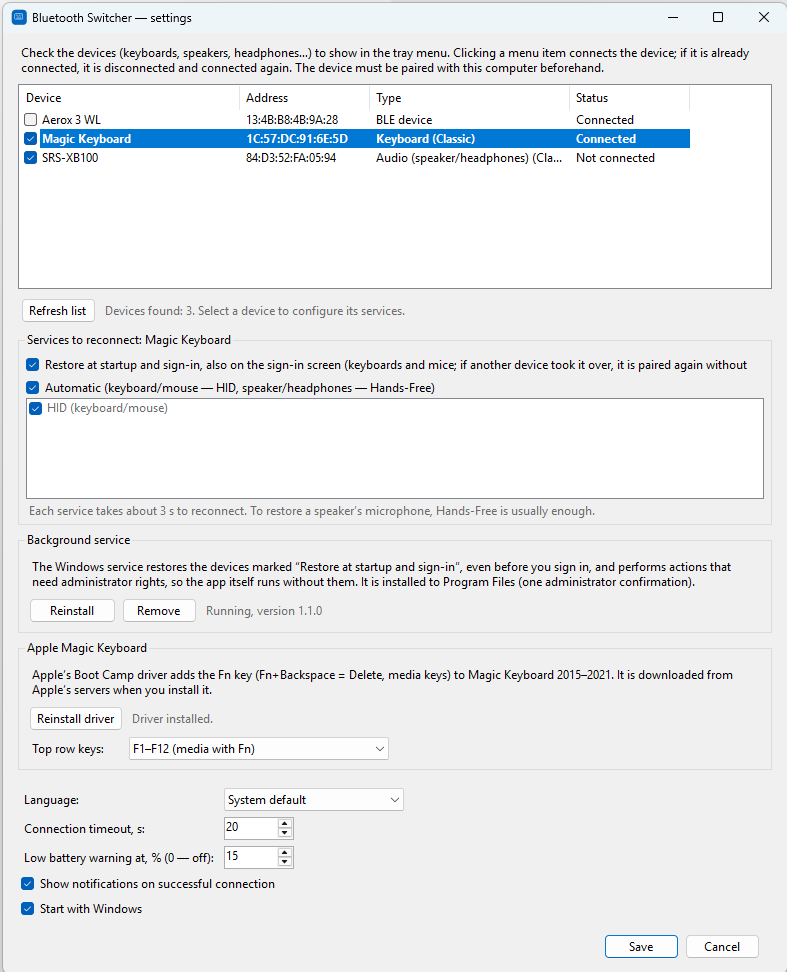
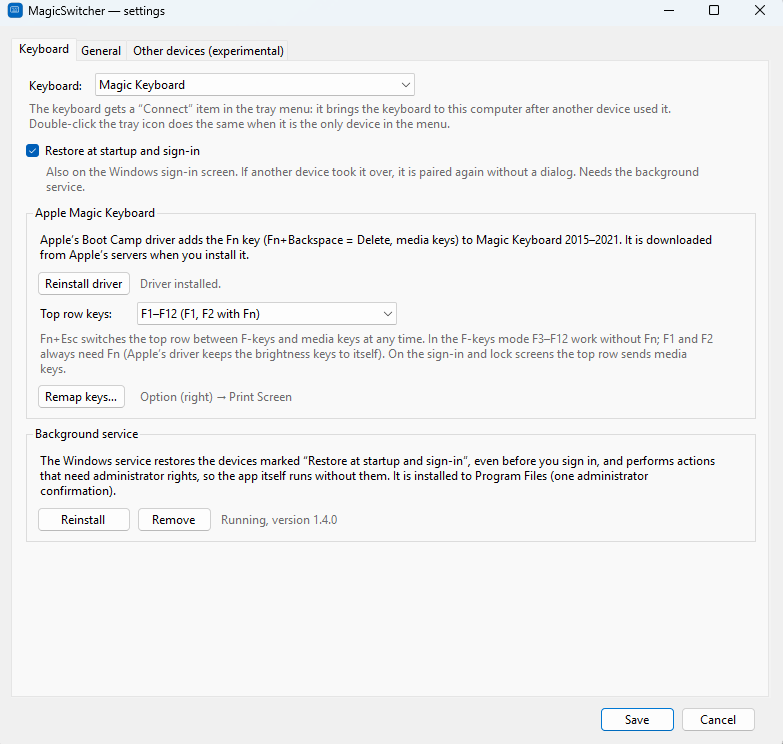
README and screenshots for 1.4.0; settings hints match the new tray menu
Claude-Session: https://claude.ai/code/session_0167kZWh8qamXcvx7FAG7wUm

diff --git a/README.md b/README.md
@@ -3,30 +3,34 @@
 **Apple Magic Keyboard on Windows, done right.** A small tray app for people who share one Magic Keyboard between a
 Windows PC and a Mac, an iPad, a phone or another PC:
 
-- **pulls the keyboard to this PC in one click** — no need to turn off Bluetooth on the other device;
+- **takes the keyboard back in one click**: click **Connect** in the tray and turn the keyboard off and on — it is paired
+  again within seconds, without the Windows dialog and without turning off Bluetooth on the other device;
 - **makes it type on the Windows sign-in screen**, even right after another device used it: Magic Keyboard keeps the
-  pairing key of only one host, and the optional background service pairs it again without the Windows dialog;
-- **installs Apple's keyboard driver** for the Fn key (Fn+Backspace = Delete, media keys) and lets you choose whether
-  the top row sends F1–F12 or media keys by default;
+  pairing key of only one host, and the optional background service pairs it again by itself;
+- **installs Apple's keyboard driver** for the Fn key (Fn+Backspace = Delete, media keys) and adds **Fn Lock**:
+  Fn+Esc switches the top row between F-keys and media keys;
+- **remaps keys of the Apple keyboard only** (Caps Lock, Control, Option, Command, Shift) — your other keyboards stay
+  as they are;
 - **shows the battery level** of the keyboard in the tray and warns when it runs low.
 
-It is also a **one-click reconnector for any other Bluetooth device** paired with Windows:
+It also helps with Bluetooth audio:
 
-- **speakers and headphones**: disconnect and connect again in one click, e.g. when a speaker “forgets” its microphone
-  (Hands-Free) — no more Settings → Bluetooth → Disconnect → Connect;
-- **other multi-host keyboards and mice** (Logitech, Keychron, Microsoft…): pull them over from another computer;
-- **battery level** of headsets, speakers and BLE devices that report it;
-- **Restart Windows audio** (tray menu → Troubleshooting): when sound or the microphone stops working everywhere and otherwise only
-  a reboot would help.
+- **notices a speaker or headset that lost its microphone** (“Connected audio” instead of “Connected mic, audio”) and
+  brings it back in one click, or automatically;
+- **Restart Windows audio** (tray menu → Troubleshooting): when sound or the microphone stops working everywhere and
+  otherwise only a reboot would help.
+
+And, as an experimental extra, it is a **one-click reconnector for other Bluetooth devices** paired with Windows: other
+multi-host keyboards and mice (Logitech, Keychron, Microsoft…), speakers and headphones, with their battery level.
 
 Tested with Apple Magic Keyboard A2450 (2021); the Fn driver supports Magic Keyboard 2015–2021.
 
 <p align="center">
-  <img src="docs/tray-menu.png" alt="Tray menu: reconnect Magic Keyboard (battery 38%), connect a speaker" width="324">
+  <img src="docs/tray-menu.png" alt="Tray menu: Magic Keyboard with its battery level, Restore the microphone of a speaker, Troubleshooting submenu" width="551">
 </p>
 
 <p align="center">
-  <img src="docs/settings.png" alt="Settings: devices, services to reconnect, background service, Apple Magic Keyboard driver" width="600">
+  <img src="docs/settings.png" alt="Settings, Keyboard tab: the keyboard, restore at startup and sign-in, Apple driver, top row keys, key remapping, background service" width="700">
 </p>
 
 ## Download
@@ -48,8 +52,9 @@ From then on:
 
 - to use the keyboard here after another device, click **Connect “Magic Keyboard”** in the tray menu (or double-click
   the icon) and turn the keyboard off and on (if it was only asleep, pressing a key is enough);
-- after a restart, or when the PC is locked, just turn the keyboard off and on (or press a key): it types within
-  about a minute, no dialog, even before you sign in.
+- after a restart, or when the PC is locked: if the keyboard stayed with this PC, just press a key; if another device
+  used it meanwhile, turn it off and on once the sign-in screen has been up for about half a minute. No dialog, even
+  before you sign in.
 
 ## Sign-in screen and switching back: the background service
 
@@ -61,22 +66,25 @@ The optional Windows service fixes that. Install it in **Settings → Background
 (one administrator confirmation) and check **Restore at startup and sign-in** for the keyboard. The service:
 
 - reacts to events: Windows startup, sign-in, unlock, wake from sleep, the display turning on, and **Connect** in the tray;
-- first gives the keyboard time to reconnect by itself (45 seconds after startup or wake: knocking earlier breaks a
-  connection that is coming up and makes Windows drop the key), then “knocks” every 20–30 seconds for up to 10 minutes;
-- if Windows still has the key, first pages the keyboard without touching the pairing (an uncached SDP query). Only if it
-  answers but still does not connect — it is awake and rejects the key, e.g. after a phone used it — the service
-  reinstalls the HID service. Reinstalling HID while the keyboard sleeps would make Windows remove a good pairing
-  (when the first HID connection fails, Windows deletes the link key); a sleeping keyboard reconnects by itself when you
-  press a key. If the key is gone (or Windows forgot the device),
-  pairs again with bonding (`BluetoothAuthenticateDeviceEx`), answers the pairing request itself
-  (`BluetoothRegisterForAuthenticationEx`) so no dialog appears, and enables the HID service;
-- keeps watching until the keyboard has worked for a minute without interruption: right after startup it may connect
-  and drop again (Windows then removes the pairing), and the service pairs it again right away;
+- first gives the keyboard time to reconnect by itself (45 seconds after startup or wake, 15 seconds after the other
+  events, none for **Connect**), then watches it for up to 10 minutes;
+- while Windows still has the key, it only *pages* the keyboard (an uncached SDP query, which does not touch the
+  pairing) every few seconds. No answer means the keyboard is asleep, off or busy with the other host: nothing is
+  changed, and a sleeping keyboard reconnects by itself when you press a key;
+- a keyboard that answers but does not stay connected was taken by another host. For a few seconds it looks exactly
+  like a working one (connected, paired, HID collections present) and then drops, and Windows keeps the useless key.
+  Waiting for Windows to notice takes too long — the keyboard accepts a new pairing only for a short while after it is
+  turned on — so the service removes the old pairing itself, pairs again with bonding (`BluetoothAuthenticateDeviceEx`),
+  answers the pairing request itself (`BluetoothRegisterForAuthenticationEx`) so no dialog appears, and enables the
+  HID service. From turning the keyboard on to typing takes 10–20 seconds;
+- it never reinstalls the HID service of a keyboard that may be asleep: the failed first HID connection would make
+  Windows delete a good pairing;
+- keeps watching until the keyboard has worked for a minute without interruption;
 - never knocks outside these events: when you hand the keyboard to a phone on purpose, it is left alone. Every event,
   the keyboard state and the service's decision are written to the service log.
 
-After another host used the keyboard, turn the keyboard off and on (or press a key) on the sign-in screen: it only
-listens for a new host for a short while after it wakes up. It types within about a minute.
+After another host used the keyboard, turn it off and on once: it accepts a new host only shortly after it is turned
+on. If it does not start typing within 20 seconds, turn it off and on again.
 
 > 🔒 Automatic confirmation skips the pairing code check. The service confirms only devices you selected and only while
 > it is restoring them after one of the events above; at any other time Windows asks as usual.
@@ -171,7 +179,7 @@ seconds, also during a call; it needs the background service).
 
 ## Other devices and how connecting works
 
-1. In **Settings**, check any paired devices (the list comes from Windows: Classic and BLE): other multi-host
+1. On the **Other devices (experimental)** tab of the settings, check any paired devices (the list comes from Windows: Classic and BLE): other multi-host
    keyboards, speakers, headphones, mice.
 2. Each of them gets an item under **Other devices** in the tray icon menu:
    - **Connect “Name”** if the device is not connected to this PC;
@@ -207,7 +215,8 @@ took the keyboard over (see above), and the tray's **Connect** goes through the 
 
 - **Keyboard** tab: your keyboard and **Restore at startup and sign-in**; the Apple driver, **top row** mode and
   **key remapping**; the **background service** (install, update or remove).
-- **General** tab: language, low battery warning threshold, notifications and start with Windows.
+- **General** tab: language, low battery warning threshold, notifications, start with Windows, and what to do when a
+  speaker or headset loses its microphone (notify; restore automatically).
 - **Other devices (experimental)** tab: other devices to show in the tray menu for a one-click reconnect, the
   **services to reconnect** for each Classic device (Automatic, or a manual selection) and the connection timeout.
 
@@ -245,8 +254,8 @@ dotnet publish src/MagicSwitcher -c Release -r win-x64 --self-contained true -p:
 ## Administrator rights
 
 The app runs without administrator rights. The actions that need them — reinstalling device services
-(`BluetoothSetServiceState` may return `ERROR_ACCESS_DENIED`), installing the Apple keyboard driver and changing its
-Fn mode — go through the background service when it is installed. Without the service, the app asks for a UAC
+(`BluetoothSetServiceState` may return `ERROR_ACCESS_DENIED`), installing the Apple keyboard driver and restarting
+Windows audio — go through the background service when it is installed. Without the service, the app asks for a UAC
 confirmation when Windows denies an action.
 
 ## Upgrading from Bluetooth Switcher
@@ -273,7 +282,8 @@ git push origin v1.4.0
 | `%AppData%\MagicSwitcher\settings.json` | settings (selected devices and services, timeout, language, battery threshold) |
 | `%AppData%\MagicSwitcher\log.txt` | log (tray menu → **Troubleshooting** → **Open log**) |
 | `%ProgramFiles%\MagicSwitcher\` | the service's copy of the app |
-| `%ProgramData%\MagicSwitcher\service.json` | devices the service restores, Apple keyboard top row choice |
+| `%ProgramData%\MagicSwitcher\service.json` | devices the service restores, remapped keys |
+| `%ProgramData%\MagicSwitcher\top-row.txt` | top row mode (Fn Lock): F-keys or media keys |
 | `%ProgramData%\MagicSwitcher\service-log.txt` | service log (tray menu → **Troubleshooting** → **Open service log**) |
 | `%ProgramData%\MagicSwitcher\remap-log.txt` | log of the key remapper started by the service |
 
@@ -285,6 +295,8 @@ src/MagicSwitcher/
 ├─ Bluetooth/
 │  ├─ BluetoothManager.cs         — device enumeration and reconnect logic
 │  ├─ DeviceStatusMonitor.cs      — tracks ConnectionStatus for the menu
+│  ├─ AudioEndpoints.cs           — does a speaker or headset have its microphone
+│  ├─ MicrophoneWatcher.cs        — notices connected audio devices that lost it
 │  ├─ NativeBluetooth.cs          — P/Invoke to bthprops.cpl (service reinstall)
 │  ├─ NativeBluetooth.Pairing.cs  — pairing without the Windows dialog
 │  ├─ BatteryReader.cs            — battery level: Windows property, BLE GATT
@@ -303,13 +315,16 @@ src/MagicSwitcher/
 │  └─ WindowsAudio.cs             — restarts the audio services and Intel Smart Sound Bluetooth audio
 ├─ Keyboard/
 │  ├─ AppleKeyboardDriver.cs      — downloads/installs Apple's keyboard driver, Fn mode
-│  ├─ KeyRemapper.cs              — remaps keys of Apple keyboards only (hook + raw input)
+│  ├─ KeyRemapper.cs              — remaps keys of Apple keyboards only (hook + raw input), Fn Lock
+│  ├─ AppleTopRow.cs              — top row mode shared by the remapper, the service and the tray
 │  └─ KeyMapping.cs
 ├─ Localization/                  — Strings*.resx (en/ru/uk), language selection
 └─ UI/
    ├─ TrayApplicationContext.cs   — tray icon and menu
    ├─ SettingsForm.cs             — settings window
+   ├─ KeyRemapForm.cs             — key remapping dialog
    └─ TrayIconFactory.cs          — icon drawn at runtime
+tools/InputProbe/                 — logs the order of keyboard hook, raw input and HID reports (used to design the remapper)
 ```
 
 ## License
